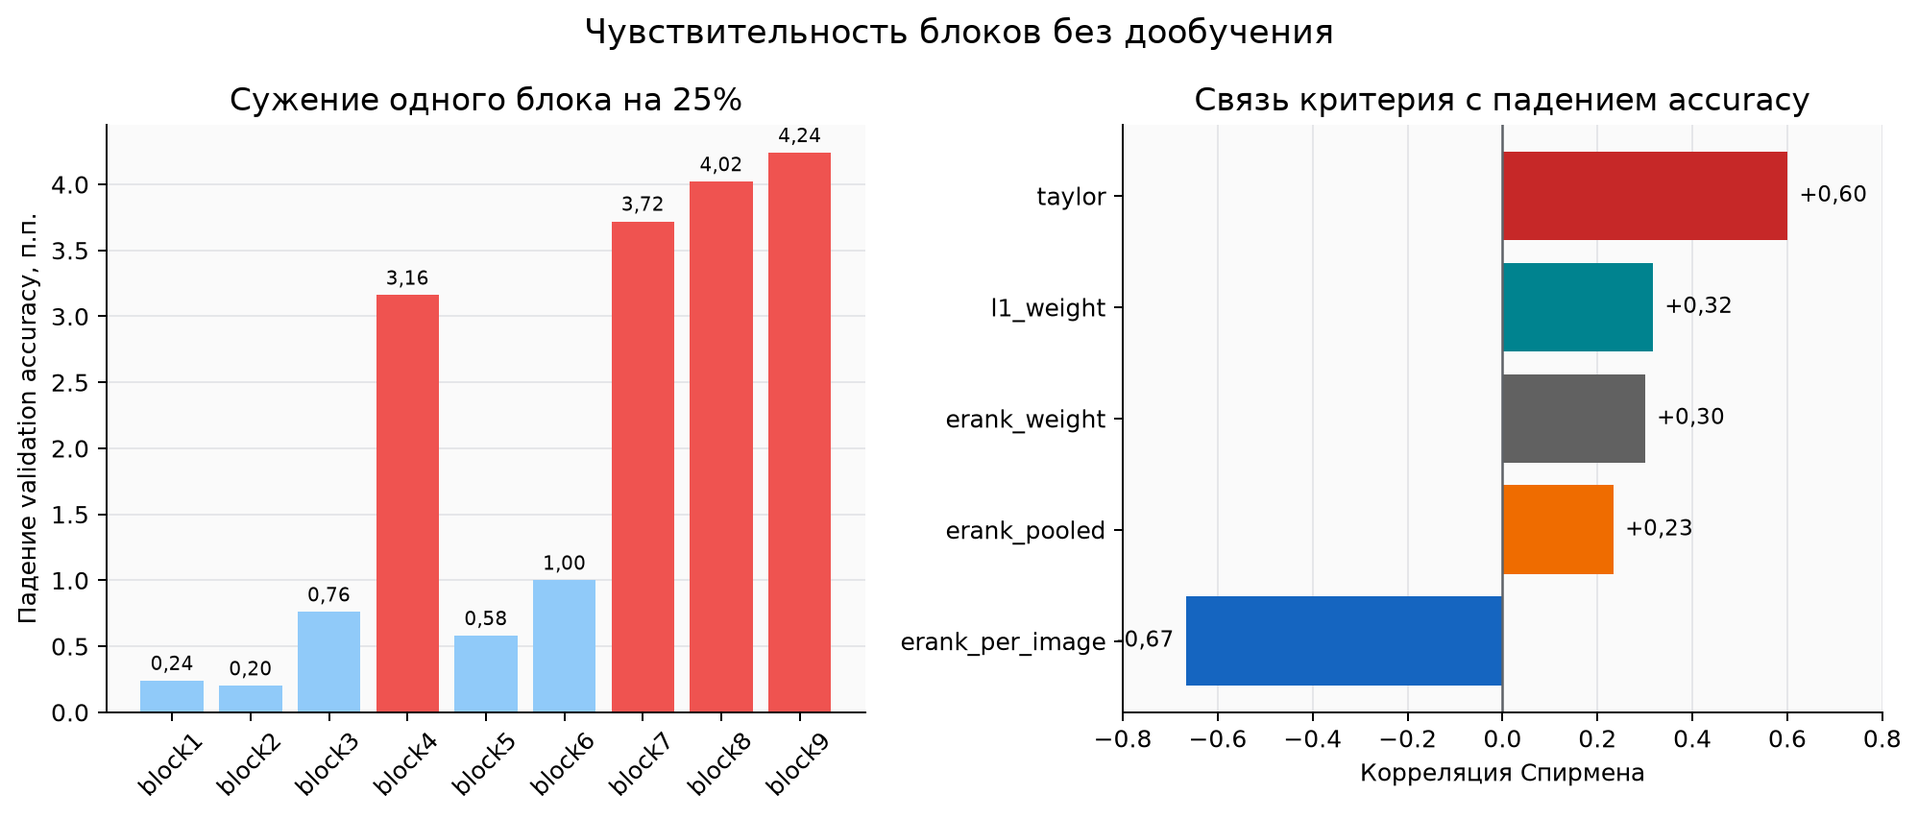
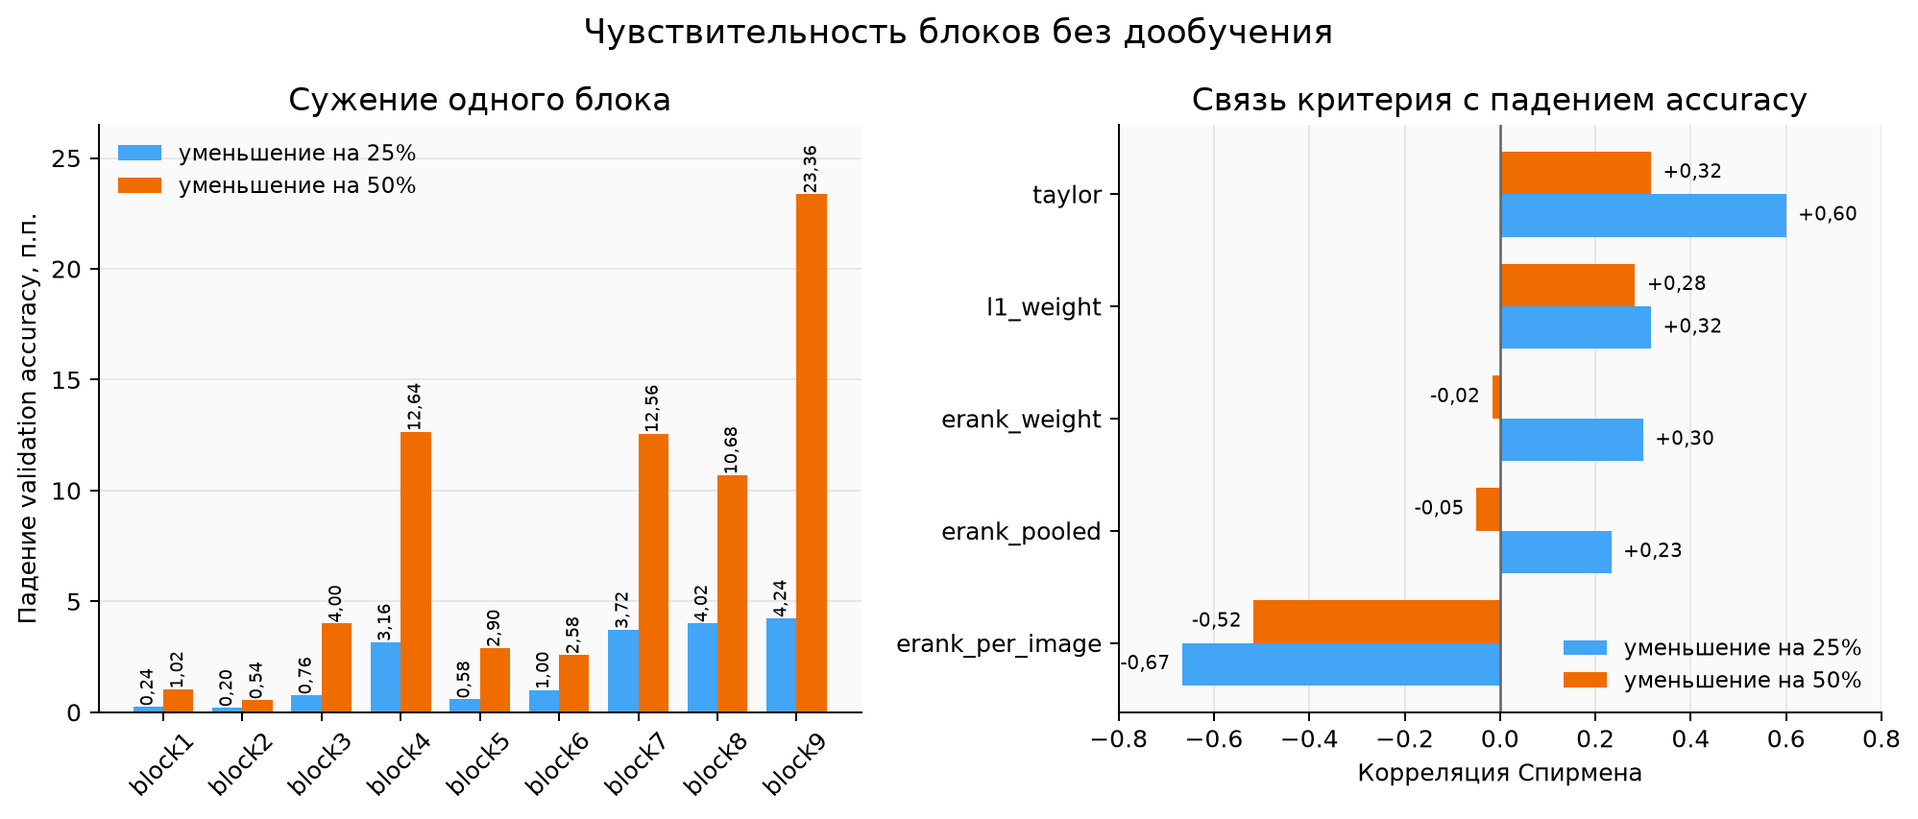
feat: compare block sensitivity at 25 and 50 percent

diff --git a/src/project_rank/plot_results.py b/src/project_rank/plot_results.py
@@ -21,8 +21,8 @@ COLORS = {
 def load_report_data(path: str | Path) -> dict[str, Any]:
     with Path(path).open("r", encoding="utf-8") as file:
         data = json.load(file)
-    if data.get("schema_version") != 2:
-        raise ValueError("Ожидалась вторая версия формата итоговых данных")
+    if data.get("schema_version") != 3:
+        raise ValueError("Ожидалась третья версия формата итоговых данных")
     return data
 
 
@@ -342,41 +342,79 @@ def plot_erank_by_block(data: dict[str, Any], output: Path) -> None:
 
 
 def plot_layer_sensitivity(data: dict[str, Any], output: Path) -> None:
-    """Show measured block sensitivity and criterion correlations."""
+    """Compare block sensitivity at 25% and 50% width reduction."""
     plt = _pyplot()
     sensitivity = data["layer_sensitivity"]
-    blocks = sensitivity["blocks"]
-    correlations = sensitivity["spearman_vs_accuracy_drop"]
+    blocks_25 = sensitivity["blocks"]
+    reduction_50 = sensitivity["reduction_50"]
+    blocks_50 = reduction_50["blocks"]
+    correlations_25 = sensitivity["spearman_vs_accuracy_drop"]
+    correlations_50 = reduction_50["spearman_vs_accuracy_drop"]
 
     fig, (ax_drop, ax_corr) = plt.subplots(1, 2, figsize=(11.2, 4.8))
-    names = [item["name"] for item in blocks]
-    drops = [100.0 * float(item["accuracy_drop"]) for item in blocks]
-    colors = ["#90CAF9" if value < 2.0 else "#EF5350" for value in drops]
-    bars = ax_drop.bar(names, drops, color=colors)
+    names = [item["name"] for item in blocks_25]
+    x = list(range(len(names)))
+    drops_25 = [100.0 * float(item["accuracy_drop"]) for item in blocks_25]
+    drops_50 = [100.0 * float(item["accuracy_drop"]) for item in blocks_50]
+    bar_width = 0.38
+    bars_25 = ax_drop.bar(
+        [value - bar_width / 2 for value in x], drops_25, width=bar_width,
+        color="#42A5F5", label="уменьшение на 25%",
+    )
+    bars_50 = ax_drop.bar(
+        [value + bar_width / 2 for value in x], drops_50, width=bar_width,
+        color="#EF6C00", label="уменьшение на 50%",
+    )
     ax_drop.set_ylabel("Падение validation accuracy, п.п.")
-    ax_drop.set_title("Сужение одного блока на 25%")
+    ax_drop.set_title("Сужение одного блока")
+    ax_drop.set_xticks(x, names)
+    ax_drop.set_ylim(0, 26.5)
     ax_drop.tick_params(axis="x", rotation=45)
     ax_drop.grid(axis="y")
     ax_drop.set_axisbelow(True)
-    for bar, value in zip(bars, drops, strict=True):
-        ax_drop.text(bar.get_x() + bar.get_width() / 2, value + 0.08,
-                     f"{value:.2f}".replace(".", ","), ha="center", fontsize=8)
+    ax_drop.legend(frameon=False, fontsize=9)
+    for bars, values in ((bars_25, drops_25), (bars_50, drops_50)):
+        for bar, value in zip(bars, values, strict=True):
+            ax_drop.text(
+                bar.get_x() + bar.get_width() / 2,
+                value + 0.22,
+                f"{value:.2f}".replace(".", ","),
+                ha="center",
+                fontsize=7,
+                rotation=90,
+            )
 
-    criterion_names = list(correlations)
-    values = [float(correlations[name]) for name in criterion_names]
-    corr_colors = [COLORS.get(name, "#5F6368") for name in criterion_names]
-    bars = ax_corr.barh(criterion_names, values, color=corr_colors)
+    criterion_names = list(correlations_25)
+    y = list(range(len(criterion_names)))
+    values_25 = [float(correlations_25[name]) for name in criterion_names]
+    values_50 = [float(correlations_50[name]) for name in criterion_names]
+    bars_25 = ax_corr.barh(
+        [value - bar_width / 2 for value in y], values_25, height=bar_width,
+        color="#42A5F5", label="уменьшение на 25%",
+    )
+    bars_50 = ax_corr.barh(
+        [value + bar_width / 2 for value in y], values_50, height=bar_width,
+        color="#EF6C00", label="уменьшение на 50%",
+    )
     ax_corr.axvline(0.0, color="#5F6368", linewidth=1)
     ax_corr.set_xlim(-0.8, 0.8)
+    ax_corr.set_yticks(y, criterion_names)
     ax_corr.set_xlabel("Корреляция Спирмена")
     ax_corr.set_title("Связь критерия с падением accuracy")
     ax_corr.grid(axis="x")
     ax_corr.set_axisbelow(True)
-    for bar, value in zip(bars, values, strict=True):
-        offset = 0.025 if value >= 0 else -0.025
-        ax_corr.text(value + offset, bar.get_y() + bar.get_height() / 2,
-                     f"{value:+.2f}".replace(".", ","),
-                     ha="left" if value >= 0 else "right", va="center", fontsize=9)
+    ax_corr.legend(frameon=False, fontsize=9, loc="lower right")
+    for bars, values in ((bars_25, values_25), (bars_50, values_50)):
+        for bar, value in zip(bars, values, strict=True):
+            offset = 0.025 if value >= 0 else -0.025
+            ax_corr.text(
+                value + offset,
+                bar.get_y() + bar.get_height() / 2,
+                f"{value:+.2f}".replace(".", ","),
+                ha="left" if value >= 0 else "right",
+                va="center",
+                fontsize=8,
+            )
     fig.suptitle("Чувствительность блоков без дообучения", fontsize=14)
     fig.tight_layout()
     _save(fig, output)

diff --git a/tests/test_plot_results.py b/tests/test_plot_results.py
@@ -15,6 +15,9 @@ def test_final_report_data_and_plots(tmp_path):
     assert len(data["baseline"]["test_by_seed"]) == 3
     assert data["p060"]["taylor"]["test_mean"] > data["p060"]["erank_per_image"]["test_mean"]
     assert data["layer_sensitivity"]["spearman_vs_accuracy_drop"]["taylor"] > 0
+    assert data["layer_sensitivity"]["reduction_50"]["reduction_ratio"] == 0.50
+    assert len(data["layer_sensitivity"]["reduction_50"]["blocks"]) == 9
+    assert data["layer_sensitivity"]["reduction_50"]["blocks"][-1]["accuracy_drop"] > 0.20
     assert all(
         "erank_per_image_ratio" in block
         for block in data["layer_sensitivity"]["blocks"]
@@ -25,4 +28,4 @@ def test_final_report_data_and_plots(tmp_path):
     assert len(outputs) == 7
     assert all(path.is_file() and path.stat().st_size > 5_000 for path in outputs)
     with open(data_path, "r", encoding="utf-8") as file:
-        assert json.load(file)["schema_version"] == 2
+        assert json.load(file)["schema_version"] == 3

diff --git a/reports/REPORT.md b/reports/REPORT.md
@@ -34,7 +34,9 @@ Effective Rank оказался содержательным критерием 
 кривых и устойчивым различиям, а не по минимальному преимуществу одной точки.
 Дополнительные эксперименты на `p080` и `p060` показали, что fine-tune не
 всегда превосходит обучение найденной архитектуры с нуля, а реальная задержка
-не всегда уменьшается пропорционально MACs.
+не всегда уменьшается пропорционально MACs. Проверка чувствительности отдельных
+блоков при уменьшении ширины на 25% и 50% показала, что последствия сильного
+сужения особенно велики для блоков 4, 7, 8 и 9.
 
 ---
 
@@ -497,29 +499,59 @@ RTX 5070 Ti при batch size 128. В таблице приведена меди
 ## 8. Чувствительность отдельных блоков
 
 Для дополнительной проверки каждый блок полной модели по очереди сужался на
-25%. Остальные блоки не изменялись, веса переносились по одному правилу L1,
-дообучение не выполнялось.
+25%, а затем на 50%. Остальные блоки не изменялись, веса переносились по одному
+правилу L1, дообучение не выполнялось. Поэтому опыт показывает непосредственное
+падение точности после сужения, а не способность модели восстановиться после
+дополнительного обучения.
 
 ![Чувствительность блоков и связь с критериями.](figures/layer_sensitivity.png)
 
-Наиболее чувствительными оказались блоки 7–9: уменьшение каждого из них
-привело к падению проверочной точности на 3,72–4,24 процентного пункта. Среди
-критериев лучшую положительную связь с измеренным падением показал `taylor`:
-корреляция Спирмена равна 0,60. Для `l1_weight` она равна 0,32, для
-`erank_weight` — 0,30, для `erank_pooled` — 0,23.
+| Блок | Исходная ширина | Ширина −25% | Падение при −25%, п.п. | Ширина −50% | Падение при −50%, п.п. |
+|---|---:|---:|---:|---:|---:|
+| 1 | 16 | 12 | 0,24 | 8 | 1,02 |
+| 2 | 16 | 12 | 0,20 | 8 | 0,54 |
+| 3 | 16 | 12 | 0,76 | 8 | 4,00 |
+| 4 | 32 | 24 | 3,16 | 16 | 12,64 |
+| 5 | 32 | 24 | 0,58 | 16 | 2,90 |
+| 6 | 32 | 24 | 1,00 | 16 | 2,58 |
+| 7 | 64 | 48 | 3,72 | 32 | 12,56 |
+| 8 | 64 | 48 | 4,02 | 32 | 10,68 |
+| 9 | 64 | 48 | 4,24 | 32 | 23,36 |
 
-У `erank_per_image` корреляция отрицательная: −0,67. Это не противоречит его
-конкурентной точности целой сети. Локальная проверка задаёт вопрос «что
+При уменьшении на 25% наиболее чувствительными были блоки 7–9 и блок 4:
+точность снижалась на 3,16–4,24 процентного пункта. Уменьшение на 50%
+подтвердило этот вывод и сделало различия заметнее. Самым чувствительным стал
+блок 9: проверочная точность упала с 92,36% до 69,00%, то есть на 23,36
+процентного пункта. Для блоков 4, 7 и 8 падение составило 10,68–12,64 пункта.
+Блоки 1 и 2 перенесли сужение лучше остальных.
+
+| Критерий | Корреляция при −25% | Корреляция при −50% |
+|---|---:|---:|
+| `erank_per_image` | −0,67 | −0,52 |
+| `erank_pooled` | 0,23 | −0,05 |
+| `erank_weight` | 0,30 | −0,02 |
+| `l1_weight` | 0,32 | 0,28 |
+| `taylor` | **0,60** | **0,32** |
+
+При уменьшении на 25% лучшую положительную связь с реальным падением показал
+`taylor`: корреляция Спирмена равна 0,60. При уменьшении на 50% эта связь стала
+слабее, но `taylor` сохранил наибольшее положительное значение — 0,32. Это
+означает, что порядок чувствительности блоков зависит не только от критерия,
+но и от силы сужения.
+
+У `erank_per_image` корреляция отрицательная: −0,67 при уменьшении на 25% и
+−0,52 при уменьшении на 50%. Это не противоречит его конкурентной точности
+целой сети. Локальная проверка задаёт вопрос «что
 произойдёт, если независимо сузить один блок без дообучения», а построение
 архитектуры распределяет общий бюджет сразу между девятью блоками и затем
 обучает новую сеть с нуля. Критерий может быть полезен для общего профиля и
 при этом плохо служить прямой оценкой локальной чувствительности.
 
-Есть и дополнительное ограничение: уменьшение каждого блока на 25% означает
-разное число удалённых параметров. В поздних широких блоках удаляется больше
-параметров, чем в ранних узких блоках. Поэтому этот опыт показывает реакцию на
-одинаковую долю удалённых каналов, но не является сравнением блоков при строго
-одинаковом уменьшении размера модели или MACs.
+Есть и дополнительное ограничение: уменьшение каждого блока на одну долю
+означает разное число удалённых параметров. В поздних широких блоках удаляется
+больше параметров, чем в ранних узких блоках. Поэтому этот опыт показывает
+реакцию на одинаковую долю удалённых каналов, но не является сравнением блоков
+при строго одинаковом уменьшении размера модели или MACs.
 
 ## 9. Ответ на основной вопрос проекта
 
@@ -542,8 +574,9 @@ Effective Rank полезен, но его преимущество зависи
 
 4. **По слоям.** Effective Rank лучше работает как правило построения полного
    профиля ширин, чем как прямая локальная оценка безопасности удаления каналов.
-   Для локальной чувствительности блоков `taylor` согласуется с измерениями
-   лучше.
+   При сужении отдельных блоков на 25% и 50% `taylor` согласуется с измерениями
+   лучше остальных проверенных критериев. Наиболее осторожно следует сужать
+   блоки 4, 7, 8 и особенно блок 9.
 
 5. **По вариантам Effective Rank.** `erank_per_image` наиболее устойчив
    относительно `random` и выигрывает на `p030`. `erank_pooled` даёт хорошие
@@ -577,7 +610,7 @@ Effective Rank полезен, но его преимущество зависи
 
 - `configs/generated_v4/manifest.json` — состав сетки;
 - `reports/data/final_results.json` — повторения `p060`, результаты fine-tune,
-  измерения ресурсов и чувствительность блоков;
+  измерения ресурсов и чувствительность блоков при сужении на 25% и 50%;
 - `reports/data/grid_results_v09.json` — проверенная сводка v09;
 - `results/summary_v09/summary.json` — полная сводка;
 - `results/summary_v09/method_points.csv` — таблица логических точек;

diff --git a/README.md b/README.md
@@ -63,6 +63,8 @@ project_rank/
 │   └── figures/                   воспроизводимые графики
 ├── results/
 │   ├── rank_analysis_seed1/       ранги, оценки и архитектуры
+│   ├── layer_sensitivity_seed1/   чувствительность при уменьшении на 25%
+│   ├── layer_sensitivity_r050_seed1/ чувствительность при уменьшении на 50%
 │   └── summary_v09/               сводка расширенной сетки
 ├── src/project_rank/              исходный код
 └── tests/                         автоматические тесты
@@ -277,9 +279,19 @@ python -m project_rank.layer_sensitivity \
   --scores results/rank_analysis_seed1/pruning_scores.json \
   --output-dir results/layer_sensitivity_seed1 \
   --reduction-ratio 0.25
+
+python -m project_rank.layer_sensitivity \
+  --config configs/baseline.json \
+  --checkpoint results/baseline_seed1/best.pt \
+  --ranks results/rank_analysis_seed1/ranks.csv \
+  --scores results/rank_analysis_seed1/pruning_scores.json \
+  --output-dir results/layer_sensitivity_r050_seed1 \
+  --reduction-ratio 0.50
 ```
 
-Каждый блок по очереди уменьшается на 25%. Дообучение не выполняется.
+Каждый блок по очереди уменьшается сначала на 25%, затем на 50%. Дообучение не
+выполняется. Эти два запуска измеряют непосредственное падение точности после
+сужения одного блока.
 
 ## 8. Формирование сводки и графиков
 

diff --git a/CHANGELOG.md b/CHANGELOG.md
@@ -1,5 +1,16 @@
 # Changelog
 
+## 0.11.0 — чувствительность блоков при сильном сужении
+
+- Добавлены результаты поочерёдного уменьшения каждого блока на 50% без
+  дообучения.
+- В отчёте и итоговых данных выполнено прямое сравнение чувствительности при
+  уменьшении ширины на 25% и 50%.
+- График чувствительности теперь показывает оба уровня сужения и отдельные
+  корреляции критериев для каждого уровня.
+- В архив включены исходные `sensitivity.json` и `sensitivity.csv` для уровня
+  50%.
+
 ## 0.10.0 — существующие результаты fine-tune и измерений ресурсов
 
 - В итоговый отчёт добавлено прямое сравнение `scratch` и `fine-tune` для
